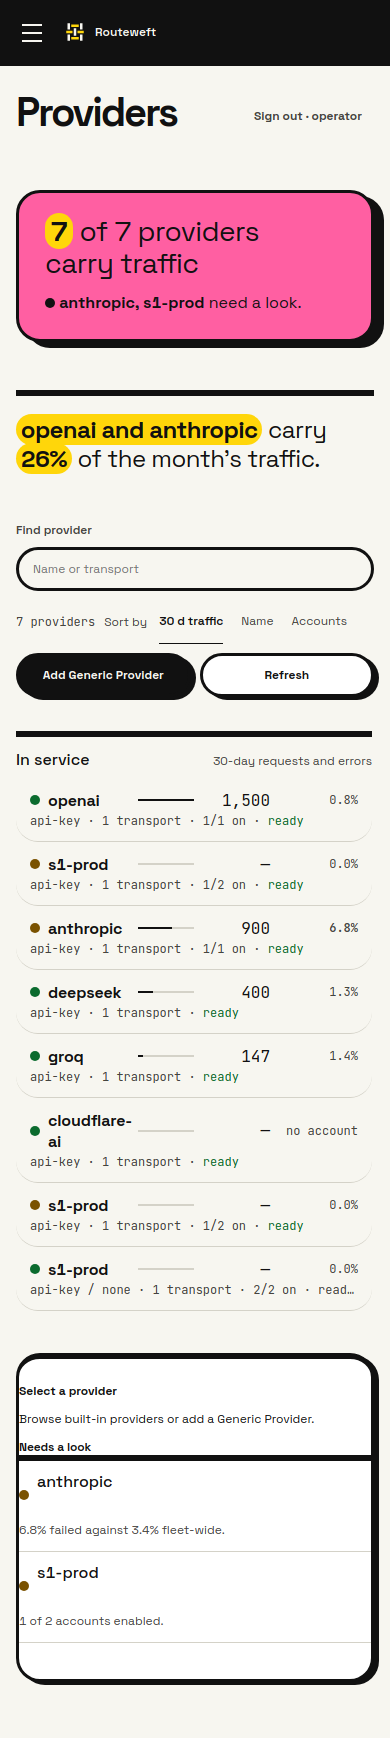
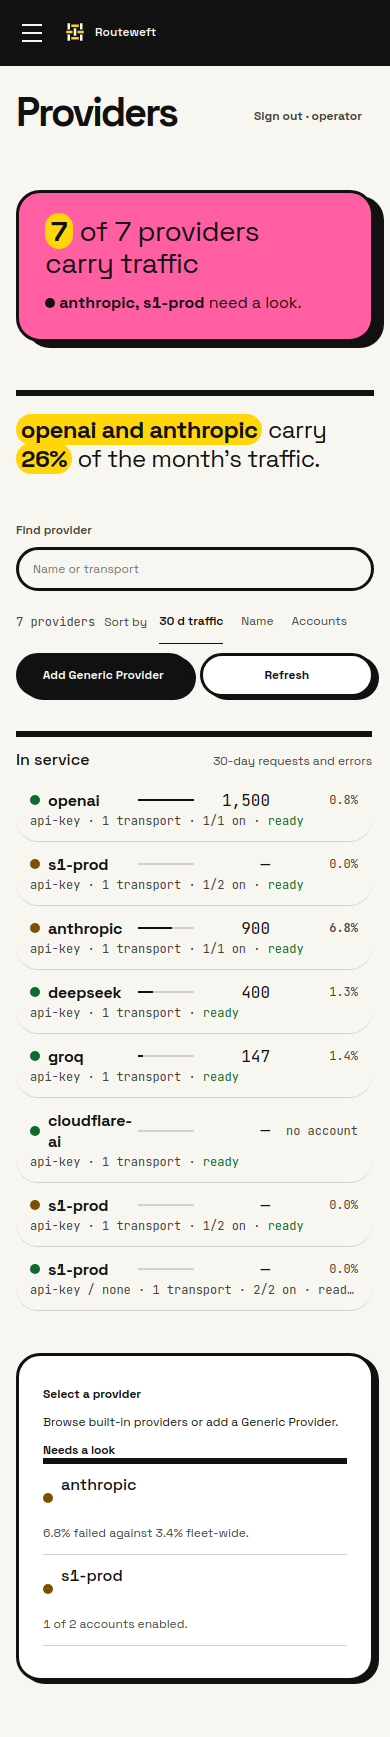
fix(ui): provider empty state box, 24px owner, dead summary selector (#263 phase 3b, review round 2)

diff --git a/ui/src/style.css b/ui/src/style.css
@@ -1068,10 +1068,9 @@ h1 { font-size: var(--t-poster); font-weight: 700; letter-spacing: -.055em; line
 .page-d .provider-option-selected { padding-left: 18px; }
 .page-d .provider-option > .status strong { font-weight: 700; }
 .page-d .ed-group { margin-bottom: 8px; }
-.page-d .provider-details > .detail-panel { border-top: 6px solid var(--ink); padding: 14px 0 28px; }
+.page-d .provider-details > .detail-panel:not(.provider-empty) { border-top: 6px solid var(--ink); padding: 14px 0 28px; }
 .page-d .provider-details > .detail-panel + .detail-panel { margin-top: 24px; }
-.page-d .provider-details > .provider-summary.accent-surface { border-top: 3px solid var(--outline); padding: 24px 28px 28px; }
-.page-d .provider-empty { border: 3px solid var(--outline); border-radius: var(--radius-state); padding: 20px 24px 24px; background: var(--surface); box-shadow: var(--hard-sm); }
+.page-d .provider-details > .provider-empty { border: 3px solid var(--outline); border-radius: var(--radius-state); padding: 20px 24px 24px; background: var(--surface); box-shadow: var(--hard-sm); }
 .page-d .provider-summary .panel-heading h2 { font-size: var(--t-title); font-weight: 700; letter-spacing: -.04em; line-height: 1; }
 .page-d .transport-options { margin: 4px 0 0; padding: 14px 0 0; border: 0; border-top: 1px solid var(--border-subtle); border-radius: 0; }
 .page-d .oauth-panel { border: 0; border-top: 1px solid var(--border-subtle); border-radius: 0; padding: 14px 0 0; background: transparent; }
@@ -1102,7 +1101,6 @@ h1 { font-size: var(--t-poster); font-weight: 700; letter-spacing: -.055em; line
   .page-d .provider-option { padding: 12px 14px; }
   .page-d .usage-tab { padding: 0 16px; }
   .page-d .quota-row { padding: 18px 0; }
-  .page-d .provider-details > .provider-summary.accent-surface { padding: 18px 18px 22px; }
 }
 /* A detail panel already opens on its own 6px rule; its heading does not draw a second one. */
 .page-d .provider-details > .detail-panel > .section-heading { border-top: 0; padding-top: 0; }

diff --git a/docs/UI_STYLE.md b/docs/UI_STYLE.md
@@ -354,7 +354,7 @@ the Add connection form, the Generic Provider form, the Usage Requests and Reque
 details tabs, Codex credit expiry and the drawer. Page rules added in 3b (2026-11-01):
 the selected provider row is the 22px `--highlight` block (the `.provider-option`
 radius owner); the Usage tabs are `button-ghost` pills (the existing pill owner) with a 3px edge, the chosen one a `--highlight` block at
-weight 700 with `aria-selected`; provider detail panels open on a 6px rule; the
+weight 700 with `aria-selected`; provider detail panels open on a 6px rule, except the empty "Select a provider" one, which is the 3px outlined 24px state box (`.provider-empty`, a `--radius-state` owner in the shell guard and measured by the 3b guard); the
 topology hub is an outlined pill and its nodes open rows (an active node a 3px ink
 rule, still saying "in flight"); a quota account is an open row under a 4px rule with
 its windows behind a 3px ink rule.
